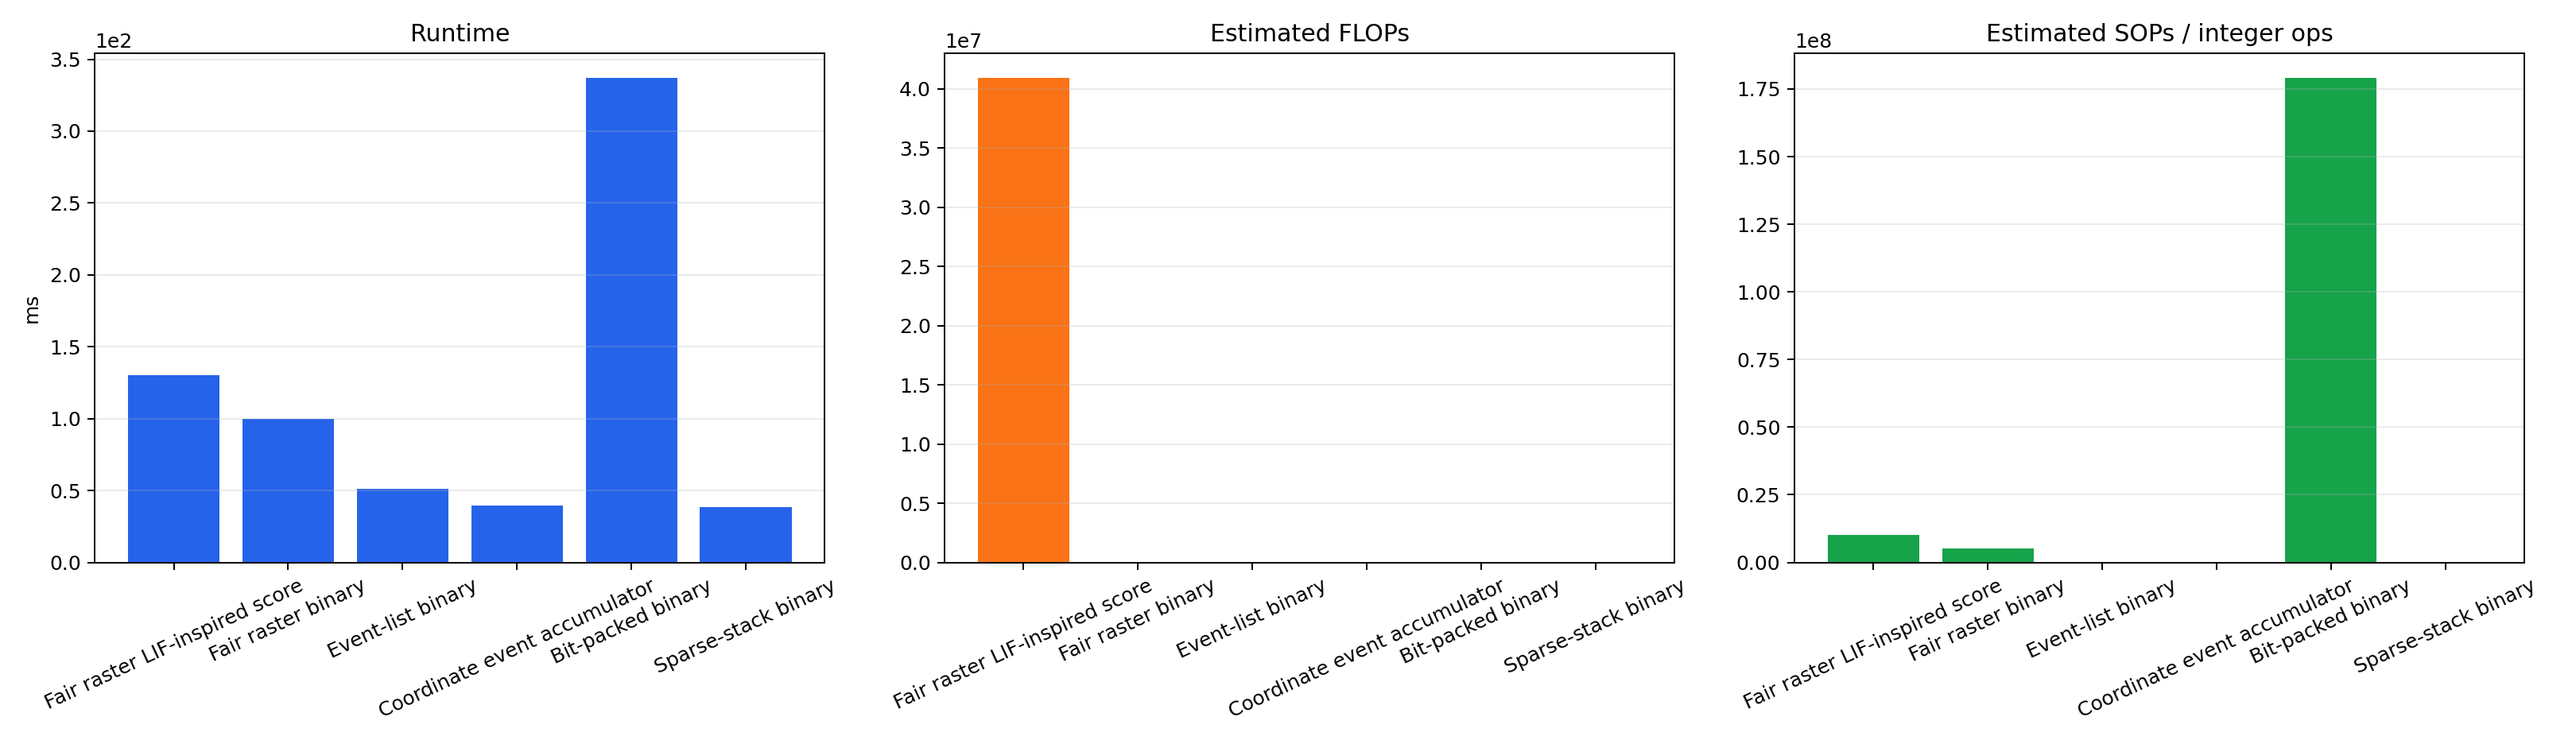
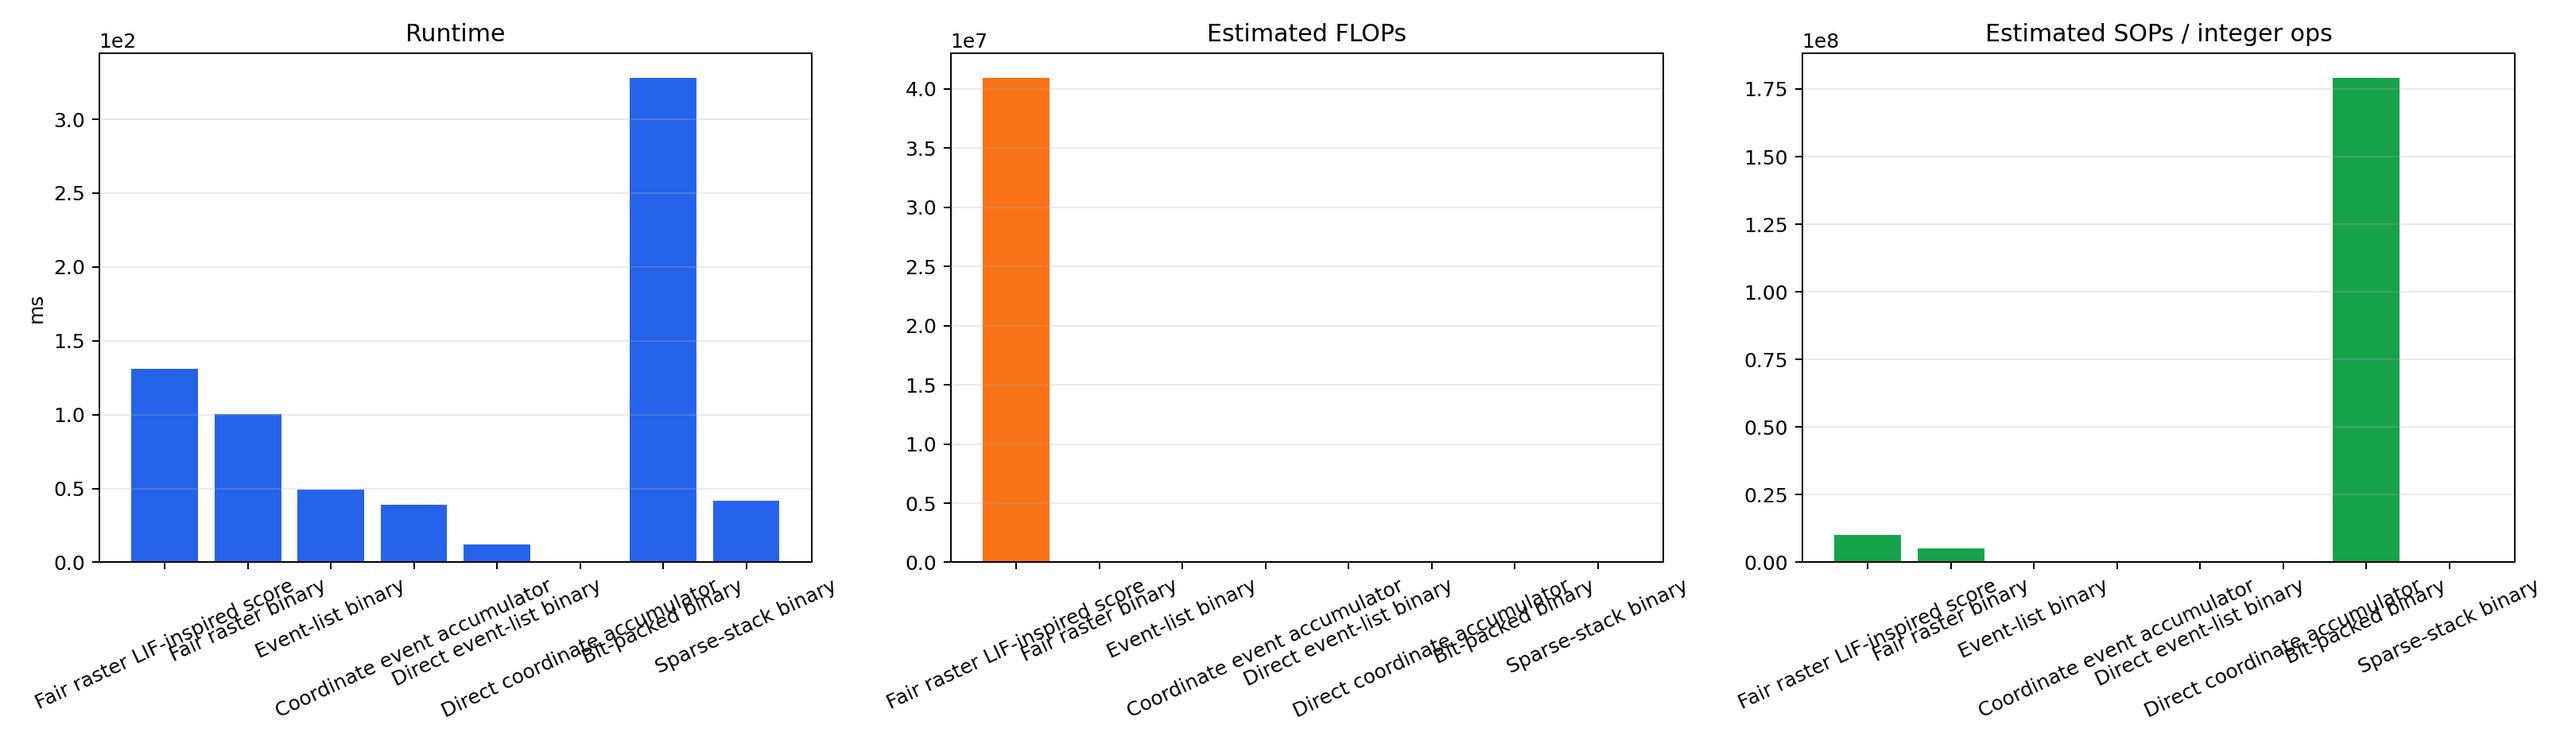
Direct events optimisation

diff --git a/distance_pathway/experiments/binary_clean_optimisation.py b/distance_pathway/experiments/binary_clean_optimisation.py
@@ -67,6 +67,8 @@ class CleanSweepDataset:
         channel_offsets_samples: Corollary-discharge sweep offsets.
         cd_raster: Corollary discharge raster `[samples, channels, time]`.
         echo_raster: Echo raster `[samples, channels, time]`.
+        cd_events: Direct CD coordinate matrix `[num_spikes, 3]`.
+        echo_events: Direct echo coordinate matrix `[num_spikes, 3]`.
         binary_tolerance_samples: Half-bin tolerance for binary matching.
     """
 
@@ -78,6 +80,8 @@ class CleanSweepDataset:
     channel_offsets_samples: np.ndarray
     cd_raster: torch.Tensor
     echo_raster: torch.Tensor
+    cd_events: np.ndarray
+    echo_events: np.ndarray
     binary_tolerance_samples: int
 
 
@@ -149,6 +153,13 @@ def _make_clean_sweep_dataset() -> CleanSweepDataset:
         echo_times = torch.as_tensor(TX_INDEX + offset + true_delay_samples, dtype=torch.long)
         echo_raster[sample_indices, channel, echo_times] = True
 
+    event_sample_ids = np.repeat(np.arange(NUM_TEST_SAMPLES, dtype=np.int64), SWEEP_CHANNELS)
+    event_channel_ids = np.tile(np.arange(SWEEP_CHANNELS, dtype=np.int64), NUM_TEST_SAMPLES)
+    event_cd_times = TX_INDEX + channel_offsets[event_channel_ids]
+    event_echo_times = event_cd_times + true_delay_samples[event_sample_ids]
+    cd_events = np.column_stack([event_sample_ids, event_channel_ids, event_cd_times]).astype(np.int64)
+    echo_events = np.column_stack([event_sample_ids, event_channel_ids, event_echo_times]).astype(np.int64)
+
     return CleanSweepDataset(
         true_distance_m=true_distance_m,
         true_delay_samples=true_delay_samples,
@@ -158,6 +169,8 @@ def _make_clean_sweep_dataset() -> CleanSweepDataset:
         channel_offsets_samples=channel_offsets,
         cd_raster=cd_raster,
         echo_raster=echo_raster,
+        cd_events=cd_events,
+        echo_events=echo_events,
         binary_tolerance_samples=binary_tolerance_samples,
     )
 
@@ -251,6 +264,32 @@ def _paired_event_delays_from_nonzero(dataset: CleanSweepDataset) -> tuple[np.nd
     """
     sample_ids, _, observed_delays = _paired_event_coordinates_from_nonzero(dataset)
     return sample_ids, observed_delays
+
+
+def _paired_event_coordinates_direct(
+    dataset: CleanSweepDataset,
+) -> tuple[np.ndarray, np.ndarray, np.ndarray]:
+    """Extract paired delays from direct event-coordinate inputs.
+
+    This represents the ideal event-based path: the upstream cochlea/front end
+    emits coordinates directly, so the distance detector does not need to scan
+    a dense raster with `nonzero`.
+
+    Args:
+        dataset: Clean sweep dataset.
+
+    Returns:
+        Tuple of `(sample_ids, channel_ids, observed_delays)`.
+    """
+    cd_events = dataset.cd_events
+    echo_events = dataset.echo_events
+    if cd_events.shape != echo_events.shape or not np.array_equal(cd_events[:, :2], echo_events[:, :2]):
+        raise ValueError("Direct coordinate benchmark expects aligned CD and echo event coordinates.")
+
+    sample_ids = echo_events[:, 0].astype(np.int64)
+    channel_ids = echo_events[:, 1].astype(np.int64)
+    observed_delays = (echo_events[:, 2] - cd_events[:, 2]).astype(np.int64)
+    return sample_ids, channel_ids, observed_delays
 
 
 def _predict_fair_lif_raster(dataset: CleanSweepDataset) -> np.ndarray:
@@ -354,6 +393,72 @@ def _predict_coordinate_event_accumulator(dataset: CleanSweepDataset) -> np.ndar
         vote_ids,
         minlength=NUM_TEST_SAMPLES * NUM_DELAY_LINES,
     ).reshape(NUM_TEST_SAMPLES, NUM_DELAY_LINES)
+    return np.argmax(scores, axis=1)
+
+
+def _accumulate_coordinate_votes(
+    sample_ids: np.ndarray,
+    observed_delays: np.ndarray,
+    lookup: np.ndarray,
+) -> np.ndarray:
+    """Accumulate candidate votes from event coordinates.
+
+    Args:
+        sample_ids: Sample index for each event.
+        observed_delays: Echo-minus-CD delay for each event.
+        lookup: Integer delay to candidate index lookup table.
+
+    Returns:
+        Predicted candidate indices.
+    """
+    valid = (observed_delays >= 0) & (observed_delays < lookup.size)
+    candidate_ids = lookup[observed_delays[valid]]
+    vote_ids = sample_ids[valid] * NUM_DELAY_LINES + candidate_ids
+    scores = np.bincount(
+        vote_ids,
+        minlength=NUM_TEST_SAMPLES * NUM_DELAY_LINES,
+    ).reshape(NUM_TEST_SAMPLES, NUM_DELAY_LINES)
+    return np.argmax(scores, axis=1)
+
+
+def _predict_direct_coordinate_event_accumulator(dataset: CleanSweepDataset) -> np.ndarray:
+    """Predict distance from direct coordinate-event inputs.
+
+    This is the pure version of the chosen optimisation mechanism. It assumes
+    the upstream front end already emits compact event coordinates instead of a
+    dense raster, so the detector only performs vector subtraction, lookup, and
+    vote accumulation.
+
+    Args:
+        dataset: Clean sweep dataset.
+
+    Returns:
+        Predicted candidate indices.
+    """
+    sample_ids, _, observed_delays = _paired_event_coordinates_direct(dataset)
+    lookup = _build_nearest_candidate_lookup(dataset)
+    return _accumulate_coordinate_votes(sample_ids, observed_delays, lookup)
+
+
+def _predict_direct_event_list_binary(dataset: CleanSweepDataset) -> np.ndarray:
+    """Predict distance with direct-coordinate event-list voting.
+
+    This is equivalent to the event-list method, but without the dense
+    raster-to-event conversion step.
+
+    Args:
+        dataset: Clean sweep dataset.
+
+    Returns:
+        Predicted candidate indices.
+    """
+    sample_ids, _, observed_delays = _paired_event_coordinates_direct(dataset)
+    distance_to_candidates = np.abs(
+        observed_delays[:, None] - dataset.candidate_delay_samples[None, :]
+    )
+    nearest_candidates = np.argmin(distance_to_candidates, axis=1)
+    scores = np.zeros((NUM_TEST_SAMPLES, NUM_DELAY_LINES), dtype=np.int32)
+    np.add.at(scores, (sample_ids, nearest_candidates), 1)
     return np.argmax(scores, axis=1)
 
 
@@ -531,6 +636,8 @@ def _operation_estimates(dataset: CleanSweepDataset) -> dict[str, tuple[float, f
         "Fair raster binary": (0.0, dense_score_ops),
         "Event-list binary": (0.0, events * math.ceil(math.log2(candidate_delays))),
         "Coordinate event accumulator": (0.0, events),
+        "Direct event-list binary": (0.0, events * math.ceil(math.log2(candidate_delays))),
+        "Direct coordinate accumulator": (0.0, events),
         "Bit-packed binary": (0.0, samples * channels * candidate_delays * words),
         "Sparse-stack binary": (0.0, events),
     }
@@ -671,11 +778,15 @@ def _write_report(
         "|---|---|---:|",
         f"| CD raster | `{NUM_TEST_SAMPLES} x {SWEEP_CHANNELS} x {time_steps}` Boolean spikes | yes |",
         f"| Echo raster | `{NUM_TEST_SAMPLES} x {SWEEP_CHANNELS} x {time_steps}` Boolean spikes | yes |",
+        f"| CD coordinate events | `{NUM_TEST_SAMPLES * SWEEP_CHANNELS} x 3` integer coordinates | direct-coordinate methods |",
+        f"| Echo coordinate events | `{NUM_TEST_SAMPLES * SWEEP_CHANNELS} x 3` integer coordinates | direct-coordinate methods |",
         f"| Candidate delay bank | `{NUM_DELAY_LINES}` candidate delays from `{MIN_DISTANCE_M}` to `{MAX_DISTANCE_M}` m | yes |",
         "| True distance | continuous target distance | error calculation only |",
         "| True delay | generated echo shift | generation/error only, not prediction |",
         "",
         "For this clean sweep benchmark there is exactly one CD spike per sample/channel and one echo spike per sample/channel. That lets the coordinate methods pair events by `(sample, channel)` without an ambiguity-resolution rule.",
+        "",
+        "Two coordinate-input variants are tested. The standard coordinate methods start from the dense raster and call `nonzero()` to recover event coordinates. The direct-coordinate variants use the coordinate matrices generated by the upstream system directly, representing the intended event-based interface.",
         "",
         "![Clean sweep rasters](../outputs/binary_clean_optimisation/figures/clean_sweep_rasters.png)",
         "",
@@ -749,6 +860,17 @@ def _write_report(
         "| Candidate quantisation | nearest-candidate lookup table |",
         "| Vote accumulation | vectorised `np.bincount` over flattened `(batch, candidate)` IDs |",
         "",
+        "### Direct Coordinate Event Inputs",
+        "",
+        "The direct-coordinate methods test the same logic under the assumption that the upstream cochlea/front end outputs coordinates directly:",
+        "",
+        "```text",
+        "cd_events   = [[batch, channel, cd_time], ...]",
+        "echo_events = [[batch, channel, echo_time], ...]",
+        "```",
+        "",
+        "This avoids the `raster.nonzero()` conversion cost. It is the more realistic target representation for an event-based model, because the detector should not need to scan a dense raster full of zeros if the cochlea can emit sparse events.",
+        "",
         "### Bit-Packed Binary",
         "",
         "Packs every time trace into a Python integer bitset. Candidate delays are tested by shifting the echo bitset and applying a bitwise `AND` with the CD bitset:",
@@ -809,6 +931,49 @@ def _write_report(
             "- The bit-packed method is closer to a real binary hardware implementation, but this Python-int prototype is mainly a correctness and scaling demonstration.",
             "- Dense `unfold` is no longer treated as the main optimised method because it turns sparse spikes into a large dense memory-traffic problem.",
             "",
+            "## Chosen Optimised Coincidence Detector",
+            "",
+            "The chosen mechanism is the direct coordinate event accumulator. It is the cleanest version of the distance detector for sparse spike inputs.",
+            "",
+            "### How It Works",
+            "",
+            "1. The upstream system emits sparse coordinate events rather than dense rasters.",
+            "2. Each CD event and echo event is represented as `(batch_index, channel_index, timestamp)`.",
+            "3. Since there is one CD spike per channel in this clean benchmark, CD and echo events are paired by `(batch_index, channel_index)`.",
+            "4. The detector computes `observed_delay = echo_time - cd_time` with vector subtraction.",
+            "5. Each observed delay is quantised to a candidate delay index using a nearest-candidate lookup table.",
+            "6. Votes are accumulated into `score[batch, candidate]` using `np.bincount`.",
+            "7. The predicted distance is the distance represented by the candidate with the most votes.",
+            "",
+            "### Parameters Used",
+            "",
+            f"- Distance range: `{MIN_DISTANCE_M} -> {MAX_DISTANCE_M} m`.",
+            f"- Candidate delay lines: `{NUM_DELAY_LINES}`.",
+            f"- Frequency channels / votes per sample: `{SWEEP_CHANNELS}`.",
+            f"- Sample rate: `{SAMPLE_RATE_HZ} Hz`.",
+            f"- Speed of sound: `{SPEED_OF_SOUND_M_S} m/s`.",
+            "- Quantisation rule: nearest candidate delay.",
+            "- Output rule: winner-take-all over candidate vote counts.",
+            "",
+            "### Why It Works Better",
+            "",
+            "The original raster methods repeatedly touch dense arrays whose size is proportional to `batch x channels x time` or `batch x channels x candidates`. Most entries are zeros. The coordinate accumulator only touches actual spikes, so its core computation scales with the number of events. For this benchmark that is `batch x channels`, because there is one useful echo event per channel.",
+            "",
+            "### Similarities To The Original LIF-Inspired System",
+            "",
+            "- Both use the same biological reference idea: compare an internal corollary-discharge time with an echo time.",
+            "- Both use the same candidate delay bank and distance mapping.",
+            "- Both choose the candidate delay that best explains the observed echo timing.",
+            "- Both are fair detector systems because they infer delay from input events rather than reading the true label.",
+            "",
+            "### Differences From The Original LIF-Inspired System",
+            "",
+            "- The LIF-inspired system is a soft score: nearby delays get graded exponential scores.",
+            "- The coordinate accumulator is event/vote based: each channel contributes a discrete vote to the nearest candidate.",
+            "- The LIF-inspired system scans all candidates for every observed delay.",
+            "- The coordinate accumulator uses a lookup table and only processes actual event coordinates.",
+            "- Neither is a full threshold/reset LIF neuron bank yet. A true LIF bank would simulate delayed CD input, echo input, membrane voltage, threshold crossing, reset, and output spikes.",
+            "",
             "## Generated Files",
             "",
         ]
@@ -838,6 +1003,8 @@ def main() -> dict[str, object]:
         ("Fair raster binary", _predict_fair_binary_raster),
         ("Event-list binary", _predict_event_list_binary),
         ("Coordinate event accumulator", _predict_coordinate_event_accumulator),
+        ("Direct event-list binary", _predict_direct_event_list_binary),
+        ("Direct coordinate accumulator", _predict_direct_coordinate_event_accumulator),
         ("Bit-packed binary", _predict_bit_packed_binary),
         ("Sparse-stack binary", _predict_sparse_stack_binary),
     ]

diff --git a/distance_pathway/reports/binary_clean_optimisation.md b/distance_pathway/reports/binary_clean_optimisation.md
@@ -27,11 +27,15 @@ This is fair because the detector must infer delay from spike timing in the inpu
 |---|---|---:|
 | CD raster | `1000 x 32 x 2218` Boolean spikes | yes |
 | Echo raster | `1000 x 32 x 2218` Boolean spikes | yes |
+| CD coordinate events | `32000 x 3` integer coordinates | direct-coordinate methods |
+| Echo coordinate events | `32000 x 3` integer coordinates | direct-coordinate methods |
 | Candidate delay bank | `160` candidate delays from `0.25` to `5.0` m | yes |
 | True distance | continuous target distance | error calculation only |
 | True delay | generated echo shift | generation/error only, not prediction |
 
 For this clean sweep benchmark there is exactly one CD spike per sample/channel and one echo spike per sample/channel. That lets the coordinate methods pair events by `(sample, channel)` without an ambiguity-resolution rule.
+
+Two coordinate-input variants are tested. The standard coordinate methods start from the dense raster and call `nonzero()` to recover event coordinates. The direct-coordinate variants use the coordinate matrices generated by the upstream system directly, representing the intended event-based interface.
 
 ![Clean sweep rasters](../outputs/binary_clean_optimisation/figures/clean_sweep_rasters.png)
 
@@ -105,6 +109,17 @@ The accumulator uses `np.bincount` over flattened `(batch, candidate)` vote IDs 
 | Candidate quantisation | nearest-candidate lookup table |
 | Vote accumulation | vectorised `np.bincount` over flattened `(batch, candidate)` IDs |
 
+### Direct Coordinate Event Inputs
+
+The direct-coordinate methods test the same logic under the assumption that the upstream cochlea/front end outputs coordinates directly:
+
+```text
+cd_events   = [[batch, channel, cd_time], ...]
+echo_events = [[batch, channel, echo_time], ...]
+```
+
+This avoids the `raster.nonzero()` conversion cost. It is the more realistic target representation for an event-based model, because the detector should not need to scan a dense raster full of zeros if the cochlea can emit sparse events.
+
 ### Bit-Packed Binary
 
 Packs every time trace into a Python integer bitset. Candidate delays are tested by shifting the echo bitset and applying a bitwise `AND` with the CD bitset:
@@ -147,12 +162,14 @@ prediction = argmax_candidate(sparse_score)
 
 | Method | MAE (cm) | RMSE (cm) | Nearest-bin accuracy (%) | Runtime (ms) | FLOPs | SOPs / integer ops |
 |---|---:|---:|---:|---:|---:|---:|
-| Fair raster LIF-inspired score | 0.7562 | 0.8708 | 97.50 | 130.016 | 40,960,000 | 10,240,000 |
-| Fair raster binary | 0.7732 | 0.8995 | 92.90 | 100.040 | 0 | 5,120,000 |
-| Event-list binary | 0.7562 | 0.8708 | 97.50 | 51.331 | 0 | 256,000 |
-| Coordinate event accumulator | 0.7562 | 0.8708 | 97.50 | 39.672 | 0 | 32,000 |
-| Bit-packed binary | 0.7732 | 0.8995 | 92.90 | 337.205 | 0 | 179,200,000 |
-| Sparse-stack binary | 0.7562 | 0.8708 | 97.50 | 38.297 | 0 | 32,000 |
+| Fair raster LIF-inspired score | 0.7562 | 0.8708 | 97.50 | 131.133 | 40,960,000 | 10,240,000 |
+| Fair raster binary | 0.7732 | 0.8995 | 92.90 | 100.129 | 0 | 5,120,000 |
+| Event-list binary | 0.7562 | 0.8708 | 97.50 | 49.420 | 0 | 256,000 |
+| Coordinate event accumulator | 0.7562 | 0.8708 | 97.50 | 39.165 | 0 | 32,000 |
+| Direct event-list binary | 0.7562 | 0.8708 | 97.50 | 11.862 | 0 | 256,000 |
+| Direct coordinate accumulator | 0.7562 | 0.8708 | 97.50 | 1.026 | 0 | 32,000 |
+| Bit-packed binary | 0.7732 | 0.8995 | 92.90 | 328.189 | 0 | 179,200,000 |
+| Sparse-stack binary | 0.7562 | 0.8708 | 97.50 | 41.505 | 0 | 32,000 |
 
 ## Interpretation
 
@@ -162,6 +179,49 @@ prediction = argmax_candidate(sparse_score)
 - The bit-packed method is closer to a real binary hardware implementation, but this Python-int prototype is mainly a correctness and scaling demonstration.
 - Dense `unfold` is no longer treated as the main optimised method because it turns sparse spikes into a large dense memory-traffic problem.
 
+## Chosen Optimised Coincidence Detector
+
+The chosen mechanism is the direct coordinate event accumulator. It is the cleanest version of the distance detector for sparse spike inputs.
+
+### How It Works
+
+1. The upstream system emits sparse coordinate events rather than dense rasters.
+2. Each CD event and echo event is represented as `(batch_index, channel_index, timestamp)`.
+3. Since there is one CD spike per channel in this clean benchmark, CD and echo events are paired by `(batch_index, channel_index)`.
+4. The detector computes `observed_delay = echo_time - cd_time` with vector subtraction.
+5. Each observed delay is quantised to a candidate delay index using a nearest-candidate lookup table.
+6. Votes are accumulated into `score[batch, candidate]` using `np.bincount`.
+7. The predicted distance is the distance represented by the candidate with the most votes.
+
+### Parameters Used
+
+- Distance range: `0.25 -> 5.0 m`.
+- Candidate delay lines: `160`.
+- Frequency channels / votes per sample: `32`.
+- Sample rate: `64000 Hz`.
+- Speed of sound: `343.0 m/s`.
+- Quantisation rule: nearest candidate delay.
+- Output rule: winner-take-all over candidate vote counts.
+
+### Why It Works Better
+
+The original raster methods repeatedly touch dense arrays whose size is proportional to `batch x channels x time` or `batch x channels x candidates`. Most entries are zeros. The coordinate accumulator only touches actual spikes, so its core computation scales with the number of events. For this benchmark that is `batch x channels`, because there is one useful echo event per channel.
+
+### Similarities To The Original LIF-Inspired System
+
+- Both use the same biological reference idea: compare an internal corollary-discharge time with an echo time.
+- Both use the same candidate delay bank and distance mapping.
+- Both choose the candidate delay that best explains the observed echo timing.
+- Both are fair detector systems because they infer delay from input events rather than reading the true label.
+
+### Differences From The Original LIF-Inspired System
+
+- The LIF-inspired system is a soft score: nearby delays get graded exponential scores.
+- The coordinate accumulator is event/vote based: each channel contributes a discrete vote to the nearest candidate.
+- The LIF-inspired system scans all candidates for every observed delay.
+- The coordinate accumulator uses a lookup table and only processes actual event coordinates.
+- Neither is a full threshold/reset LIF neuron bank yet. A true LIF bank would simulate delayed CD input, echo input, membrane voltage, threshold crossing, reset, and output spikes.
+
 ## Generated Files
 
 - `clean_sweep_rasters`: `distance_pathway/outputs/binary_clean_optimisation/figures/clean_sweep_rasters.png`
@@ -169,4 +229,4 @@ prediction = argmax_candidate(sparse_score)
 - `runtime_cost`: `distance_pathway/outputs/binary_clean_optimisation/figures/runtime_cost.png`
 - `results`: `distance_pathway/outputs/binary_clean_optimisation/results.json`
 
-Runtime: `5.69 s`.
+Runtime: `5.55 s`.
